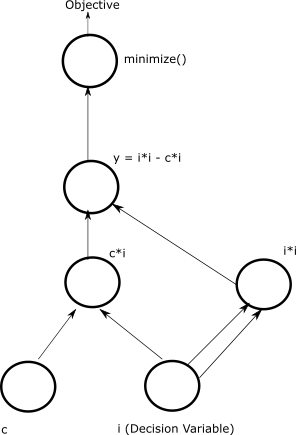
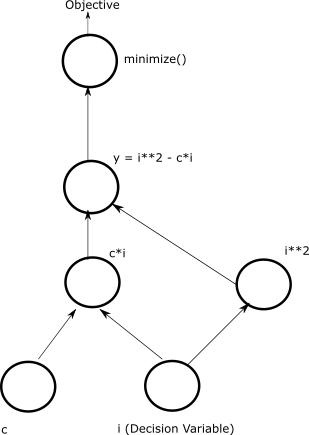
Update polynomial example to use square

diff --git a/docs/intro.rst b/docs/intro.rst
@@ -69,8 +69,8 @@ as follows:
 >>> model = Model()
 >>> i = model.integer(lower_bound=-5, upper_bound=5)
 >>> c = model.constant(4)
->>> y = i*i - c*i
->>> model.minimize(y.sum())      
+>>> y = i**2 - c*i
+>>> model.minimize(y)      
 
 The code above has the following elements:
 
@@ -94,11 +94,6 @@ The code above has the following elements:
 *   The :meth:`~dwave.optimization.symbols.Min` symbol is a 
     mathematical operation on inputs from other symbols. In this model, it 
     generates the objective function. 
-*   The :meth:`~dwave.optimization.symbols.Sum` 
-    (:meth:`~dwave.optimization.mathematical.add` method) 
-    symbol is another mathematical operation. Here, it is used because the 
-    objective function being minimized must be a scalar and :code:`y`, like
-    :code:`i` and :code:`c` are matrices (of a single element each). 
 
 The directed acyclic graph below illustratively represents the model for 
 minimizing polynomial :math:`y = i^2 - 4i`.
